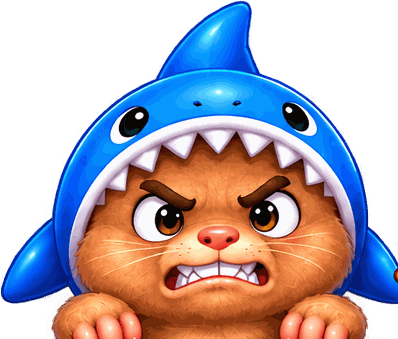
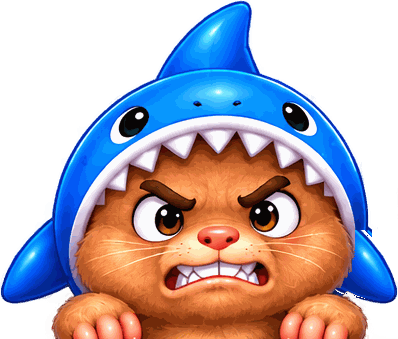
mole v965: 출석 화면 — 상어 두더지 잘린 지느러미 자연스럽게, 간판 가장자리 두더지 조각 삭제, 오른쪽 두더지 손 잘림 수정
Claude-Session: https://claude.ai/code/session_01GirAya7RX91uMc859bmUVe

Changed region(s): [[0.8442, 0.6785, 1.0, 0.9145]]

diff --git a/mole/index.html b/mole/index.html
@@ -873,7 +873,7 @@
         <!-- 배포 버전 표식(스크린샷으로 어느 버전인지 확인용) — 화면 좌하단에 두면 다른 UI에
              가려 잘 안 보인다는 사용자 지적으로, 하트 아이콘(다이얼패드 1번 칸) 바로 위로 이동. -->
         <div class="h2-preload" aria-hidden="true"></div><!-- v951: 게임 중 버튼 색(초록·노랑·빨강·분홍·회색) 미리 읽어 두기 — 처음 바뀔 때 깜빡임 방지 -->
-        <div id="build-tag" aria-hidden="true">v964</div>
+        <div id="build-tag" aria-hidden="true">v965</div>
         <!-- 피버타임(터치캐치 보너스타임) 전광판 — 버튼보드 자리를 통째로 덮는 오버레이,
              평소엔 hidden, 피버 중에만 콤보/잔여시간 표시(사용자 지정: "전광판처럼"). -->
         <div id="fever-scoreboard" class="fever-scoreboard" hidden>
@@ -1127,7 +1127,7 @@ window.FGH.rollOut = function (el, done) {
       } else {
         // ?v= 로 매 배포마다 URL을 바꿔서 GitHub Pages의 sw.js 캐시(max-age=600)를 무조건 우회 —
         // 안 그러면 배포 직후에도 최대 10분간 옛 서비스워커가 안 갈리는 경우가 있었음(사용자 보고).
-        navigator.serviceWorker.register('sw.js?v=964').catch(function () {});
+        navigator.serviceWorker.register('sw.js?v=965').catch(function () {});
       }
     });
   }

diff --git a/mole/style.css b/mole/style.css
@@ -3242,7 +3242,7 @@ body { background: var(--lm-page); }
 .dr-sign { position: absolute; left: 50%; top: 0; width: 60%; transform: translateX(-50%); z-index: 1; }
 .dr-mole { position: absolute; bottom: calc(var(--w) * -0.035); z-index: 2; }
 .dr-mole--l { left: -2%; width: 31%; }
-.dr-mole--r { right: -2%; width: 29%; }
+.dr-mole--r { right: 0; width: 29%; } /* v965: -2% → 0, 흔드는 손 끝이 화면 밖으로 잘리던 것 */
 /* 메인판 = 분리 에셋의 빈 메인판을 9분할(border-image)로 — 전구 테두리는 그대로 두고 세로만 늘려 카드를 크게(v748: 원래 보드판 비율 그대로는 카드가 너무 작아 글씨가 안 보였음). */
 .dr-board { position: relative; width: 100%; box-sizing: border-box; z-index: 1; border-style: solid;
   border-width: calc(var(--w) * 80 / 758) calc(var(--w) * 58 / 758) calc(var(--w) * 59 / 758);

diff --git a/mole/sw.js b/mole/sw.js
@@ -3,7 +3,7 @@
 // 폴백 전용으로만 갱신한다. (예전엔 stale-while-revalidate라 배포해도 "다음 실행"에야
 // 반영돼 사용자 체감 대기가 길었음 — 온라인=항상 최신, 오프라인=마지막 캐시로 변경.)
 // SHELL 목록 자체가 바뀔 때만 CACHE 를 올린다.
-const CACHE = 'mole-game-v964';
+const CACHE = 'mole-game-v965';
 
 // 화면별 BGM(audio/bgm-*.mp3)은 v275 부터 SHELL 에 포함 — 기본 켜짐(v272)이라 항상 필요하고,
 // 캐시가 안 돼 있으면 오프라인/느린망에서 재생 실패했음.
